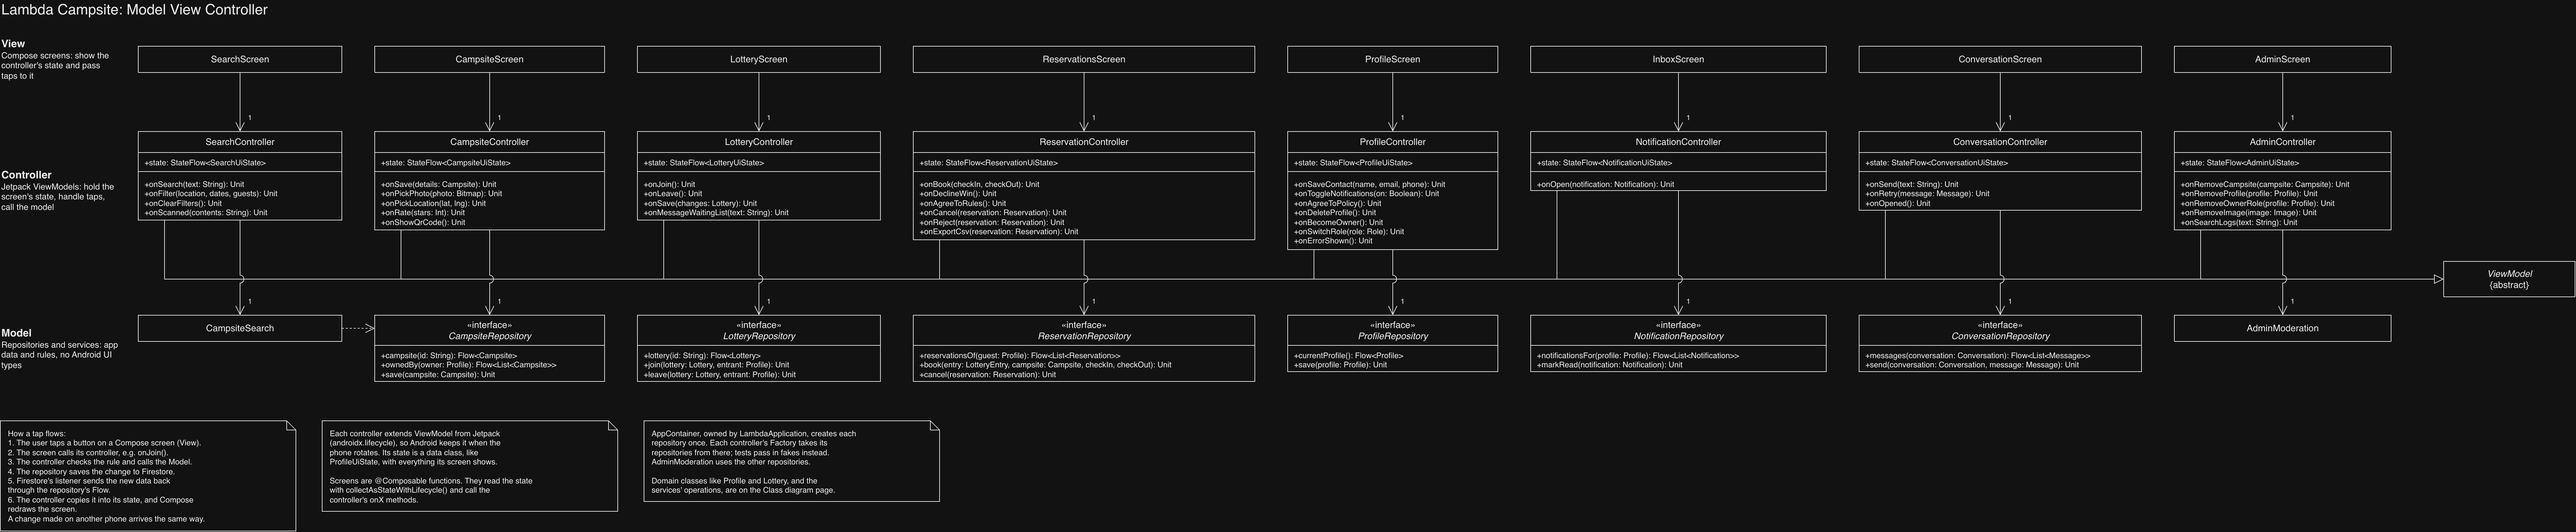
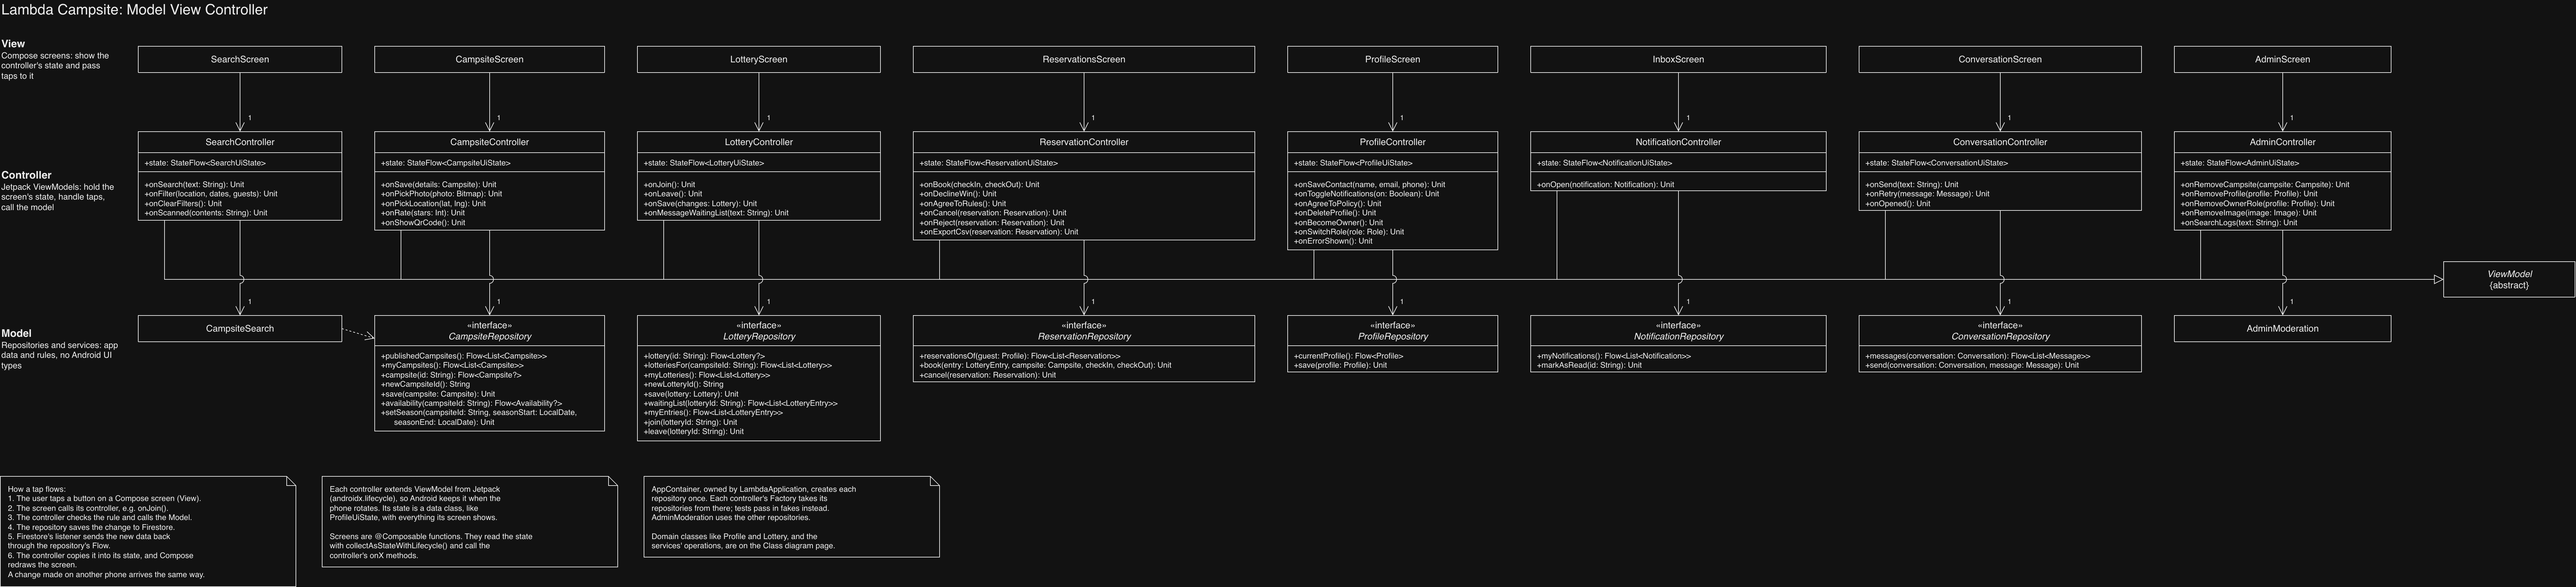
docs: update the MVC and class diagrams to match the code

diff --git a/docs/architecture.md b/docs/architecture.md
@@ -71,7 +71,7 @@ We read all 60 user stories, underlined the nouns and circled the verbs. Nouns b
 | A removed profile stays in Firestore with `removed` set and its personal details wiped. | Identity comes from the device (01.09.01). Deleting the document would let a removed user start over on the next launch. A user who deletes their own profile (01.08.01) gets a full delete. |
 | Profile and Campsite implement the `ImageOwner` interface. | One Image class serves both. When an admin removes a photo (03.03.01), the image tells its owner to fall back to a placeholder without caring which kind of owner it is. |
 | Image, Availability, LotteryEntry and Message are composition parts. | None of them means anything without its whole, so deleting a campsite must delete its photo and calendar. Firestore doesn't delete a document's subcollections by itself, so the `cleanUpCampsite` and `cleanUpProfile` functions do it (section 4). |
-| The diagram types references with the class, like `reservation: Reservation`. Firestore stores them as IDs. | This follows the course's rules for turning UML into Kotlin. Repositories turn IDs into objects when they load data. One exception: `Campsite` keeps `ownerId` as a string, because profiles are private and other users can't load the owner's profile. |
+| The diagram types references with the class, like `reservation: Reservation`. Firestore stores them as IDs. | This follows the course's rules for turning UML into Kotlin. Repositories turn IDs into objects when they load data. The exceptions are `Campsite`, `Lottery` and `LotteryEntry`, which keep `ownerId`, `campsiteIds` and `entrantId` as strings. Profiles are private, so other users can't load the owner's or entrant's profile, and a lottery's campsites load through their own repository. |
 | "Booking period" in 02.04.04 means the stay dates the lottery covers. | Every reservation comes from a lottery, so each lottery has to say which nights it gives out. A campsite can run a July lottery and an August lottery. |
 | No replacement draw when a winner declines (01.04.03). | The declined nights go back to the calendar for the other winners, and the draw stays a single event. |
 | Price per night is optional and only displayed. Rules are one text field that includes the cancellation policy. | No story covers payment, so there are no refunds to handle. 02.11.01 needs rules that entrants agree to. |
